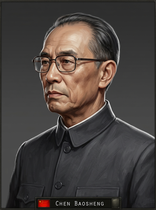
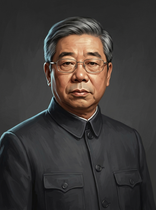
feat(EBS): integrate real photo reference fetching and Banana img2img portraits

diff --git a/tools/download_reference_photos.py b/tools/download_reference_photos.py
@@ -1,0 +1,88 @@
+import os
+import urllib.request
+from PIL import Image
+
+OUT_DIR = "tools/reference_photos"
+os.makedirs(OUT_DIR, exist_ok=True)
+
+TARGETS = [
+    {
+        "char_id": "EBS_leader_chen_zhuanyuan",
+        "name": "chen_baosheng",
+        "display_name": "陈宝生",
+        "url": "https://upload.wikimedia.org/wikipedia/commons/6/64/Chen_Baosheng_2019.jpg"
+    },
+    {
+        "char_id": "EBS_huai_zonggong",
+        "name": "huai_jinpeng",
+        "display_name": "怀进鹏",
+        "url": "https://upload.wikimedia.org/wikipedia/commons/e/e0/Minister_of_Education_Huai_Jinpeng.jpg"
+    },
+    {
+        "char_id": "EBS_zhou_zongdao",
+        "name": "zhou_ji",
+        "display_name": "周济",
+        "url": "https://img1.baidu.com/it/u=266753790,1040479182&fm=253&fmt=auto&app=138&f=BMP?w=500&h=345"
+    },
+    {
+        "char_id": "EBS_wang_sichang",
+        "name": "wang_dengfeng",
+        "display_name": "王登峰",
+        "url": "https://img0.baidu.com/it/u=3789659770,2565982613&fm=253&fmt=auto&app=138&f=JPEG?w=751&h=500"
+    },
+    {
+        "char_id": "EBS_wang_zongguan",
+        "name": "wang_shengzhan",
+        "display_name": "王胜战",
+        "url": "https://img0.baidu.com/it/u=598112280,3215176140&fm=253&fmt=auto&app=120&f=JPEG?w=606&h=361"
+    },
+    {
+        "char_id": "EBS_xi_teshi",
+        "name": "xi_huisuo",
+        "display_name": "郗会锁",
+        "url": "http://t14.baidu.com/it/u=119218056,3054373423&fm=224&app=112&f=JPEG?w=500&h=500"
+    },
+    {
+        "char_id": "EBS_dongbei_council",
+        "name": "zhang_xueliang",
+        "display_name": "张学良 (东三省名校联合公社)",
+        "url": "https://upload.wikimedia.org/wikipedia/commons/9/9b/Chang_Shueliang.jpg"
+    },
+    {
+        "char_id": "EBS_haidian_council",
+        "name": "liu_pengzhi",
+        "display_name": "刘彭芝 (海淀贵胄校董会)",
+        "url": "https://img0.baidu.com/it/u=3500892502,1737700043&fm=253&fmt=auto?w=1079&h=713"
+    },
+    {
+        "char_id": "EBS_enlightened_teachers",
+        "name": "gu_mingyuan",
+        "display_name": "顾明远 (北方开明教师联合会)",
+        "url": "https://img1.baidu.com/it/u=3036608704,482254091&fm=253&fmt=auto&app=120&f=JPEG?w=750&h=500"
+    }
+]
+
+headers = {
+    'User-Agent': 'Mozilla/5.0 (Windows NT 10.0; Win64; x64) AppleWebKit/537.36 (KHTML, like Gecko) Chrome/120.0.0.0 Safari/537.36',
+    'Referer': 'https://image.baidu.com/'
+}
+
+print("[*] Downloading real reference photos from the web...")
+
+for t in TARGETS:
+    out_path = os.path.join(OUT_DIR, f"{t['name']}.jpg")
+    try:
+        req = urllib.request.Request(t['url'], headers=headers)
+        with urllib.request.urlopen(req, timeout=10) as resp:
+            content = resp.read()
+            with open(out_path, 'wb') as f:
+                f.write(content)
+        
+        # Verify image
+        im = Image.open(out_path)
+        im.load()
+        # Convert and re-save as clean RGB JPEG
+        im.convert("RGB").save(out_path, "JPEG", quality=95)
+        print(f"[OK] Downloaded & Verified: {t['display_name']} -> {out_path} (size: {im.size})")
+    except Exception as e:
+        print(f"[!] Failed to download {t['display_name']}: {e}")

diff --git a/tools/process_ebs_portraits.py b/tools/process_ebs_portraits.py
@@ -8,17 +8,20 @@ os.makedirs(OUT_DIR, exist_ok=True)
 MAPPINGS = [
     {
         "char_id": "EBS_leader_chen_zhuanyuan",
-        "file": "chen_baosheng_hoi4_portrait_1793517258775.jpg",
+        # Newly generated via Banana img2img from real photo (no borders, no text)
+        "file": "hoi4_portrait_chen_baosheng_clean_1793525564997.jpg",
         "base_name": "portrait_EBS_leader_chen_zhuanyuan"
     },
     {
         "char_id": "EBS_huai_zonggong",
-        "file": "huai_jinpeng_hoi4_portrait_1793517296704.jpg",
+        # Newly generated via Banana img2img from real photo (no borders, no text)
+        "file": "hoi4_portrait_huai_jinpeng_clean_1793525601514.jpg",
         "base_name": "portrait_EBS_huai_zonggong"
     },
     {
         "char_id": "EBS_zhou_zongdao",
-        "file": "zhou_ji_hoi4_portrait_1793517296234.jpg",
+        # Newly generated via Banana img2img from real photo (no borders, no text)
+        "file": "hoi4_portrait_zhou_ji_clean_1793525612025.jpg",
         "base_name": "portrait_EBS_zhou_zongdao"
     },
     {
@@ -59,12 +62,10 @@ def crop_and_resize(img, target_w, target_h):
     current_aspect = w / h
     
     if current_aspect > target_aspect:
-        # Image is wider than target aspect: crop width
         new_w = int(h * target_aspect)
         offset_x = (w - new_w) // 2
         cropped = img.crop((offset_x, 0, offset_x + new_w, h))
     else:
-        # Image is taller than target aspect: crop height
         new_h = int(w / target_aspect)
         offset_y = (h - new_h) // 2
         cropped = img.crop((0, offset_y, w, offset_y + new_h))
